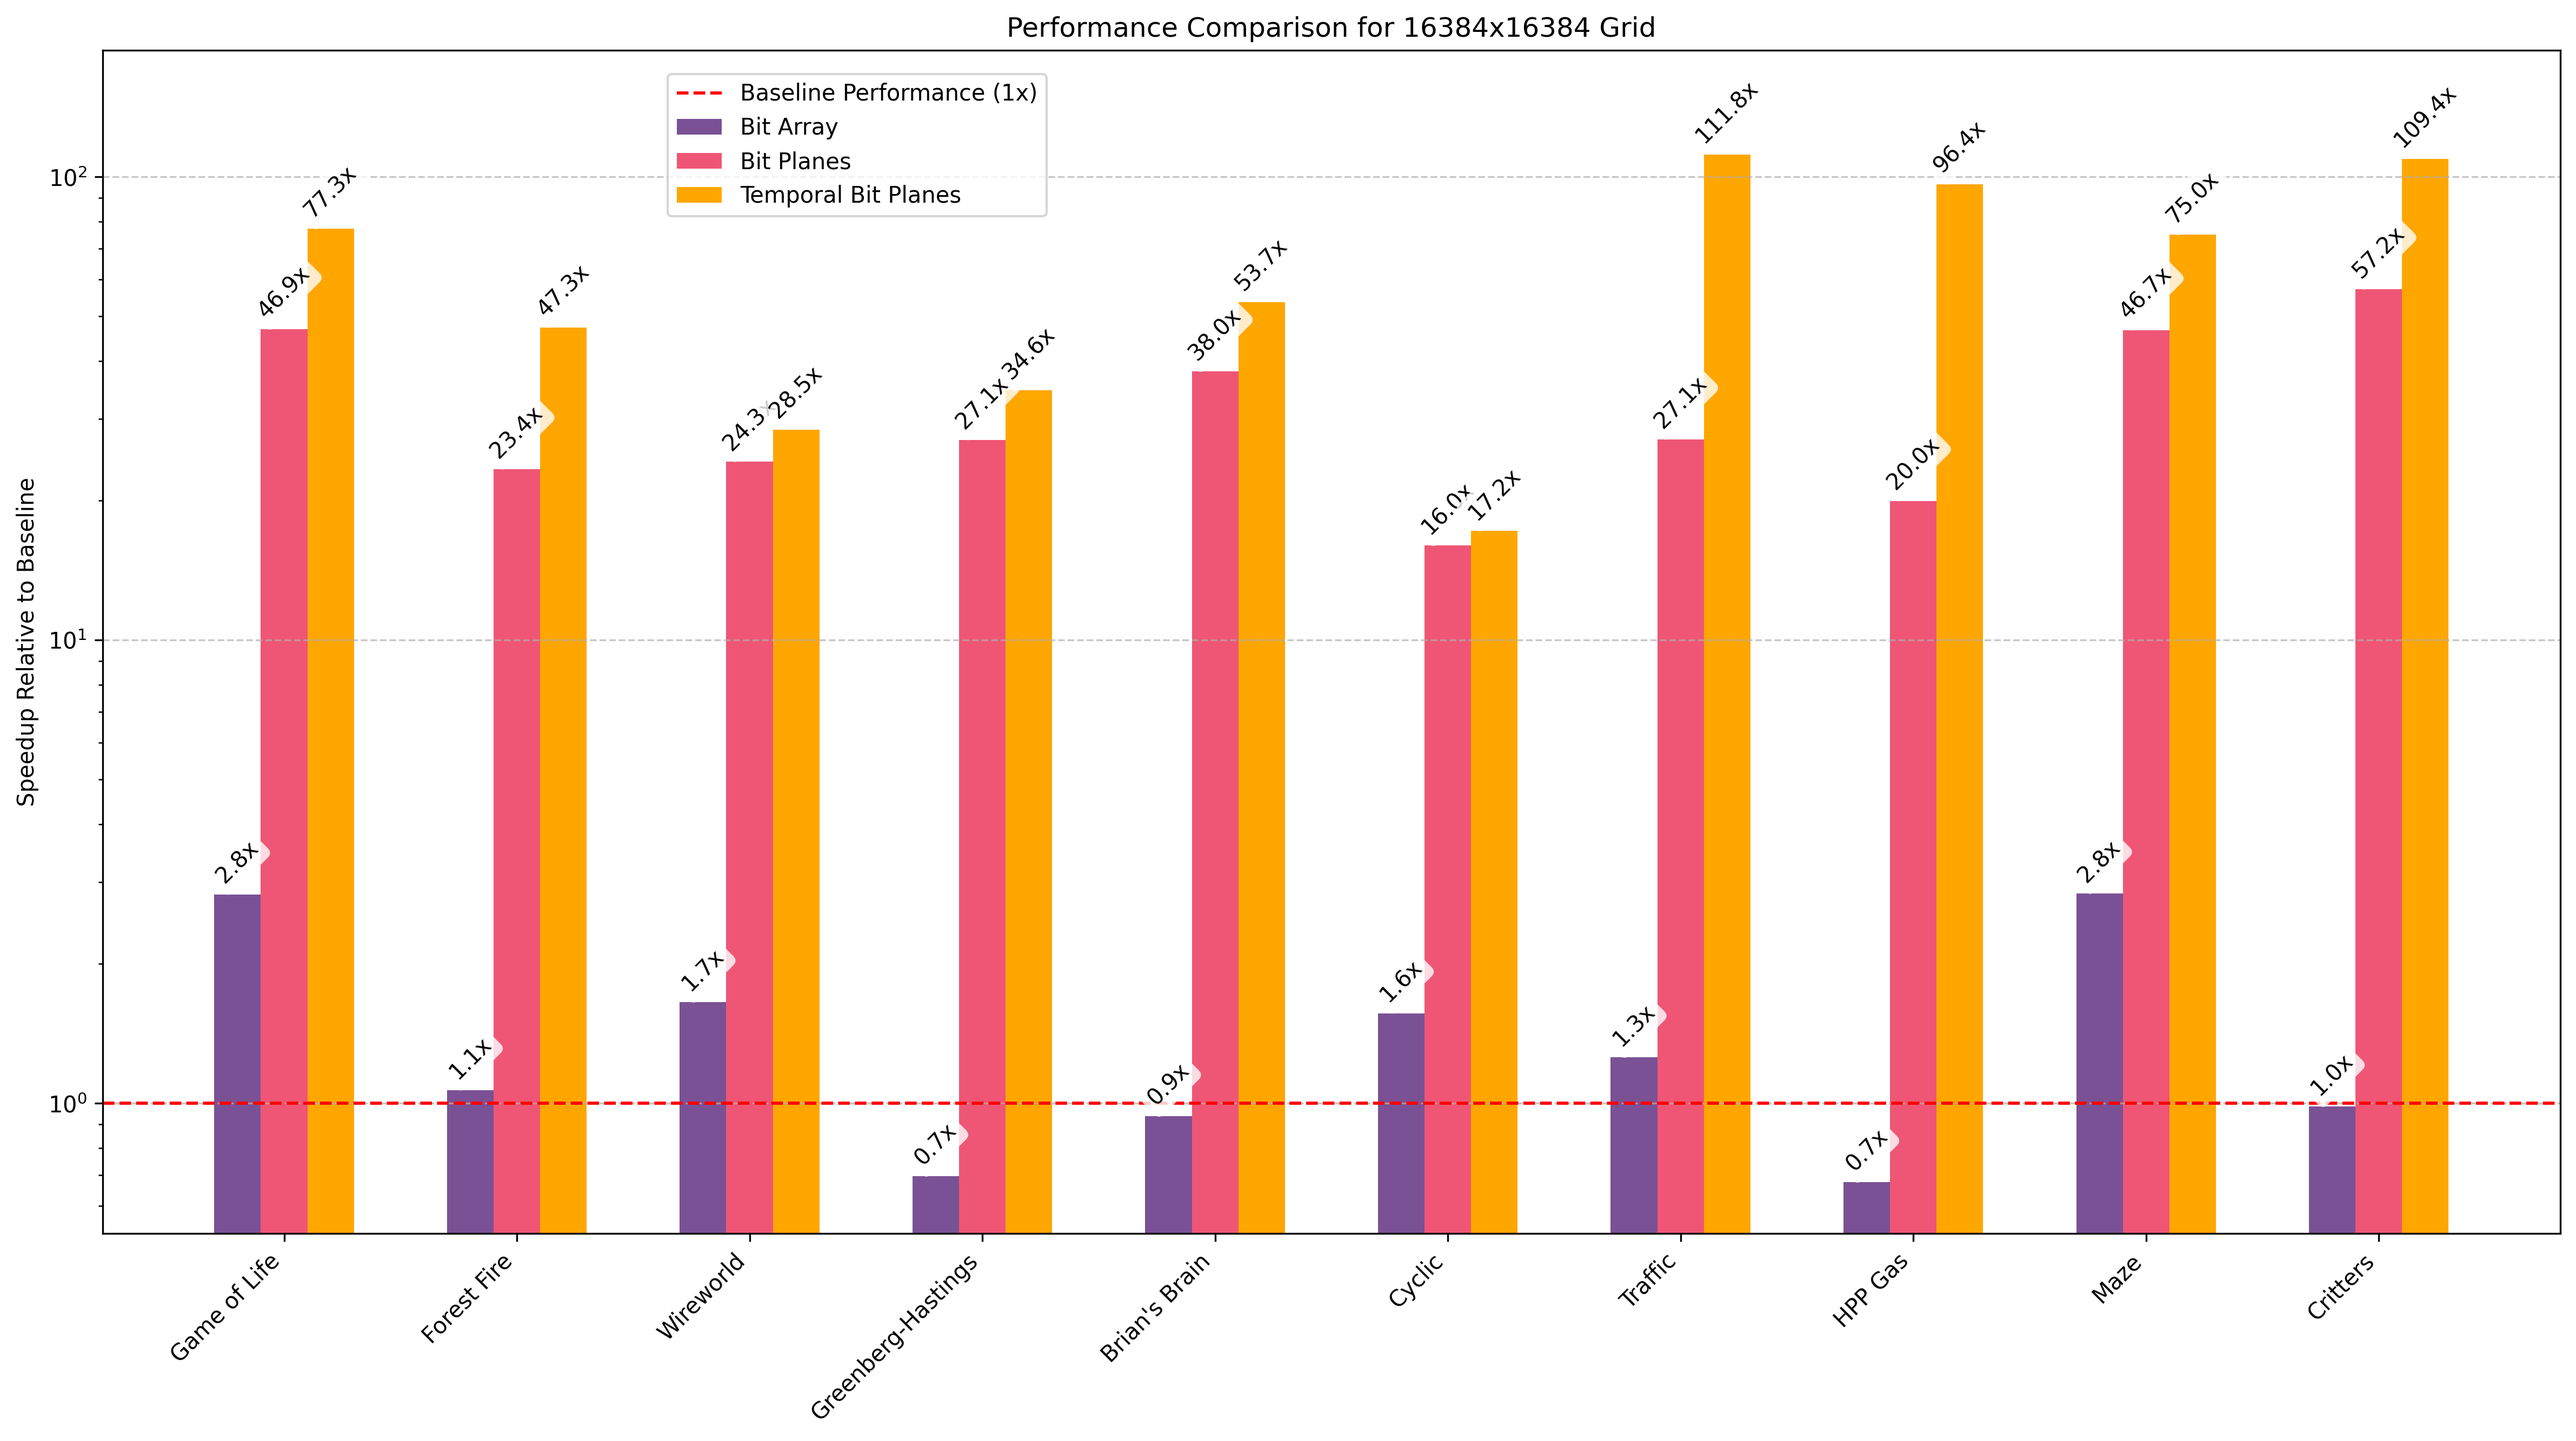
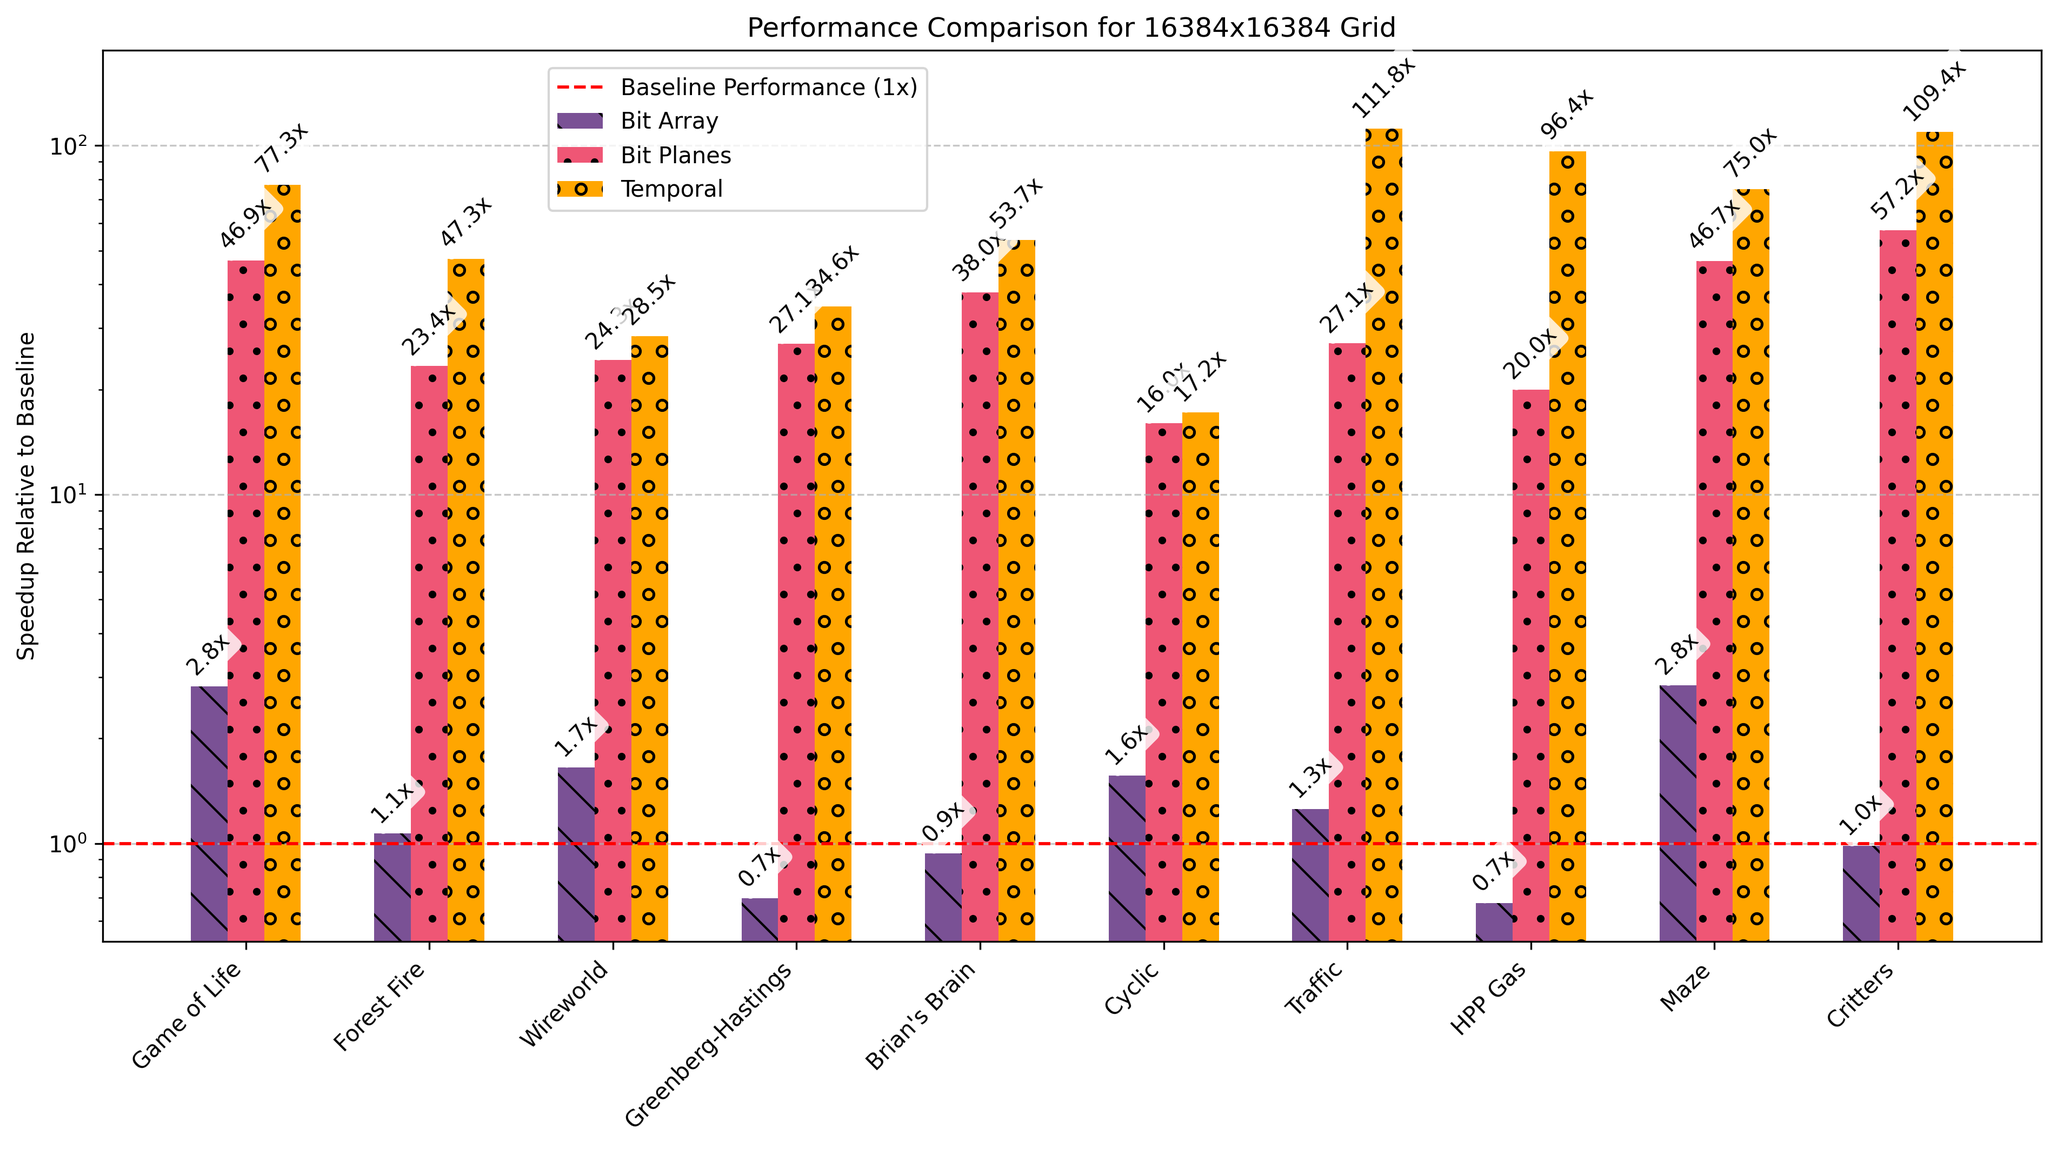
new graph - tiled vs linear

diff --git a/src/_scripts/graph-producers/linear_vs_tiled.py b/src/_scripts/graph-producers/linear_vs_tiled.py
@@ -1,0 +1,136 @@
+import os
+import sys
+import matplotlib.pyplot as plt
+import numpy as np
+
+# --- 1. Data Loading ---
+sys.path.append(os.path.join(os.path.dirname(__file__), '..'))
+from abstractions.results_abstractions import CSVLoader, AUTOMATA
+
+path_to_csv = "../results/grid-search-results.csv"
+size=16384
+loader = CSVLoader(path_to_csv)
+size_group = loader.get_groups_by_sizes([size**2])[size**2]
+print(f"Total results for size {size}x{size}: {len(size_group)}")
+
+# --- Implementation definitions for the new comparison ---
+bit_planes_linear_impl = {'traverser': 'simple', 'evaluator': 'bit_planes', 'layout': 'bit_planes'}
+bit_planes_tiled_impl = {'traverser': 'simple', 'evaluator': 'tiled_bit_planes', 'layout': 'tiled_bit_planes'}
+temporal_linear_impl = {'traverser': 'linear_temporal', 'evaluator': 'bit_planes', 'layout': 'bit_planes'}
+temporal_tiled_impl = {'traverser': 'tiled_temporal', 'evaluator': 'tiled_bit_planes', 'layout': 'tiled_bit_planes'}
+
+# --- Group results for the four selected implementations ---
+bit_planes_linear_group = [x for x in size_group if x.is_implementation(bit_planes_linear_impl)]
+bit_planes_tiled_group = [x for x in size_group if x.is_implementation(bit_planes_tiled_impl)]
+temporal_linear_group = [x for x in size_group if x.is_implementation(temporal_linear_impl)]
+temporal_tiled_group = [x for x in size_group if x.is_implementation(temporal_tiled_impl)]
+
+# --- Find the best time for each of the four implementations ---
+bests_by_automaton = {}
+for automaton in AUTOMATA:
+    bpl_best = min([x for x in bit_planes_linear_group if x.values.get('automaton') == automaton], key=lambda x: x.normalized_time())
+    bpt_best = min([x for x in bit_planes_tiled_group if x.values.get('automaton') == automaton], key=lambda x: x.normalized_time())
+    tl_best = min([x for x in temporal_linear_group if x.values.get('automaton') == automaton], key=lambda x: x.normalized_time())
+    tt_best = min([x for x in temporal_tiled_group if x.values.get('automaton') == automaton], key=lambda x: x.normalized_time())
+
+    bests_by_automaton[automaton] = {
+        'bit_planes_linear': bpl_best.normalized_time() * 1e9,
+        'bit_planes_tiled': bpt_best.normalized_time() * 1e9,
+        'temporal_linear': tl_best.normalized_time() * 1e9,
+        'temporal_tiled': tt_best.normalized_time() * 1e9
+    }
+print("Finished processing data. Starting plot generation.")
+
+# --- 2. Plotting Phase ---
+automaton_names = {
+    "game-of-life": "Game of Life", "forest-fire": "Forest Fire", "wire": "Wireworld",
+    "greenberg-hastings": "Greenberg-Hastings", "brian": "Brian's Brain", "cyclic": "Cyclic",
+    "traffic": "Traffic", "hpp": "HPP Gas", "maze": "Maze", "critters": "Critters"
+}
+
+# ⚙ New Graph Configuration
+plot_config = {
+    'y_axis_scale': 'linear',
+    'figure_size': (16, 9),
+    'bar_width': 0.18,
+    'group_gap': 0.02,
+    'title': f'Linear vs. Tiled Performance for {size}x{size} Grid (Absolute Time)',
+    'add_data_labels': True,
+    'label_fontsize': 10,
+    'label_rotation': 45, # Adjusted rotation for better look with "Xx" format
+    'label_padding': 5,
+    'custom_colors': {
+        'bit_planes_linear': '#6baed6', 'bit_planes_tiled': '#74c476',
+        'temporal_linear': '#08519c', 'temporal_tiled': '#006d2c'
+    },
+    'bar_hatches': {
+        'bit_planes_linear': '/', 'bit_planes_tiled': '//',
+        'temporal_linear': 'x', 'temporal_tiled': 'xx'
+    }
+}
+
+# --- Data Preparation ---
+labels = [automaton_names.get(a, a) for a in AUTOMATA]
+implementations = ['bit_planes_linear', 'bit_planes_tiled', 'temporal_linear', 'temporal_tiled']
+impl_display_names = {
+    'bit_planes_linear': 'Bit Planes (Linear)', 'bit_planes_tiled': 'Bit Planes (Tiled)',
+    'temporal_linear': 'Temporal (Linear)', 'temporal_tiled': 'Temporal (Tiled)'
+}
+data = {impl: [] for impl in implementations}
+
+y_axis_label = "Execution Time per Cell (ps) — Lower is Better"
+for automaton in AUTOMATA:
+    for impl in implementations:
+        data[impl].append(bests_by_automaton[automaton][impl])
+
+# --- Plotting ---
+fig, ax = plt.subplots(figsize=plot_config['figure_size'])
+x = np.arange(len(labels))
+width = plot_config['bar_width']
+gap = plot_config['group_gap']
+offsets = {
+    'bit_planes_linear': -1.5*width - gap, 'bit_planes_tiled': -0.5*width - gap,
+    'temporal_linear': 0.5*width + gap, 'temporal_tiled': 1.5*width + gap
+}
+bar_containers = {}
+
+for impl in implementations:
+    color = plot_config['custom_colors'].get(impl)
+    hatch = plot_config['bar_hatches'].get(impl)
+    bars = ax.bar(x + offsets[impl], data[impl], width, label=impl_display_names[impl], color=color, hatch=hatch, edgecolor='white')
+    bar_containers[impl] = bars
+
+# --- Styling and Customization ---
+ax.set_ylabel(y_axis_label)
+ax.set_title(plot_config['title'])
+ax.set_xticks(x)
+ax.set_xticklabels(labels, rotation=45, ha="right")
+ax.set_yscale(plot_config['y_axis_scale'])
+ax.grid(axis='y', linestyle='--', alpha=0.7)
+
+# 🆕 --- Modified Data Label Logic ---
+if plot_config['add_data_labels']:
+    # 1. Calculate and apply speedup labels for Tiled Bit Planes
+    bpt_speedup_labels = [f'{(linear / tiled):.2f}x' for linear, tiled in zip(data['bit_planes_linear'], data['bit_planes_tiled'])]
+    ax.bar_label(bar_containers['bit_planes_tiled'], labels=bpt_speedup_labels,
+                 padding=plot_config['label_padding'],
+                 fontsize=plot_config['label_fontsize'],
+                 rotation=plot_config['label_rotation'])
+
+    # 2. Calculate and apply speedup labels for Tiled Temporal
+    tt_speedup_labels = [f'{(linear / tiled):.2f}x' for linear, tiled in zip(data['temporal_linear'], data['temporal_tiled'])]
+    ax.bar_label(bar_containers['temporal_tiled'], labels=tt_speedup_labels,
+                 padding=plot_config['label_padding'],
+                 fontsize=plot_config['label_fontsize'],
+                 rotation=plot_config['label_rotation'])
+    # Linear bars are intentionally left without labels
+
+current_ylim = ax.get_ylim()
+ax.set_ylim(top=current_ylim[1] * 1.3) # Increased top margin for rotated labels
+
+ax.legend(loc='upper right')
+fig.tight_layout()
+
+# --- Saving ---
+plt.savefig('linear_vs_tiled_performance.png', dpi=300, bbox_inches='tight')
+print("Graph successfully saved as linear_vs_tiled_performance.png")

diff --git a/src/_scripts/graph-producers/baseline-all-the-way-up.py b/src/_scripts/graph-producers/baseline-all-the-way-up.py
@@ -53,10 +53,11 @@ automaton_names = {
 }
 
 # ⚙ Graph Configuration
+scale = 0.8
 plot_config = {
     'y_axis_mode': 'speedup',
     'y_axis_scale': 'log',
-    'figure_size': (16, 9),
+    'figure_size': (16*scale, 9*scale),
     'bar_width': 0.2,
     'title': f'Performance Comparison for {size}x{size} Grid',
     'show_baseline_bar': False,
@@ -64,18 +65,25 @@ plot_config = {
     'add_data_labels': True,
     'label_fontsize': 10,
     'label_use_background': True,
-    'label_rotation': 45,         # 🆕 Angle for the data labels
-    'label_padding': 3,          # 🆕 Padding above the bar for the labels
+    'label_rotation': 45,
+    'label_padding': 3,
     'custom_colors': {
         'baseline': '#003f5c', 'bit_array': '#7a5195',
         'bit_planes': '#ef5675', 'temporal': '#ffa600'
-    }
+    },
+    'bar_hatches': {  # More subtle hatch patterns
+        'baseline': '/',      # single diagonal lines
+        'bit_array': '\\',    # back diagonal lines
+        'bit_planes': '.',    # dots
+        'temporal': 'o'       # small circles
+    },
+    'hatch_density': 0.5      # Controls how dense the hatches appear (lower = more subtle)
 }
 
 # --- Data Preparation ---
 labels = [automaton_names.get(a, a) for a in AUTOMATA]
 implementations = ['baseline', 'bit_array', 'bit_planes', 'temporal']
-impl_display_names = {'baseline': 'Baseline', 'bit_array': 'Bit Array', 'bit_planes': 'Bit Planes', 'temporal': 'Temporal Bit Planes'}
+impl_display_names = {'baseline': 'Baseline', 'bit_array': 'Bit Array', 'bit_planes': 'Bit Planes', 'temporal': 'Temporal'}
 data = {}
 
 if not plot_config['show_baseline_bar']:
@@ -104,7 +112,11 @@ bar_containers = {}
 
 for i, impl in enumerate(implementations):
     color = plot_config['custom_colors'].get(impl)
-    bars = ax.bar(x + offsets[i], data[impl], width, label=impl_display_names[impl], color=color)
+    hatch = plot_config['bar_hatches'].get(impl)
+    # Use a single character for more subtle hatching with density control
+    if hatch and plot_config.get('hatch_density', 1) < 1:
+        hatch = hatch[0]  # Just use one character for subtlety
+    bars = ax.bar(x + offsets[i], data[impl], width, label=impl_display_names[impl], color=color, hatch=hatch)
     bar_containers[impl] = bars
 
 # --- Styling and Customization ---
@@ -125,7 +137,6 @@ if plot_config['add_data_labels']:
     bbox_props = dict(boxstyle="round,pad=0.3", fc="white", ec="none", alpha=0.8) if plot_config['label_use_background'] else None
     for impl, bars in bar_containers.items():
         label_format = '%.1fx' if plot_config['y_axis_mode'] == 'speedup' else '%d'
-        # 🆕 Use new rotation and padding values from config
         ax.bar_label(bars, fmt=label_format,
                      padding=plot_config['label_padding'],
                      fontsize=plot_config['label_fontsize'],
@@ -134,7 +145,6 @@ if plot_config['add_data_labels']:
 
 if plot_config['show_baseline_line'] and plot_config['y_axis_mode'] == 'speedup':
     current_ylim = ax.get_ylim()
-    # 🆕 Increased top margin to give rotated labels more space
     ax.set_ylim(bottom=min(1.0, current_ylim[0]), top=current_ylim[1] * 1.3)
 
 ax.legend(loc='upper left', bbox_to_anchor=(0.23, 0.98), borderaxespad=0.)
